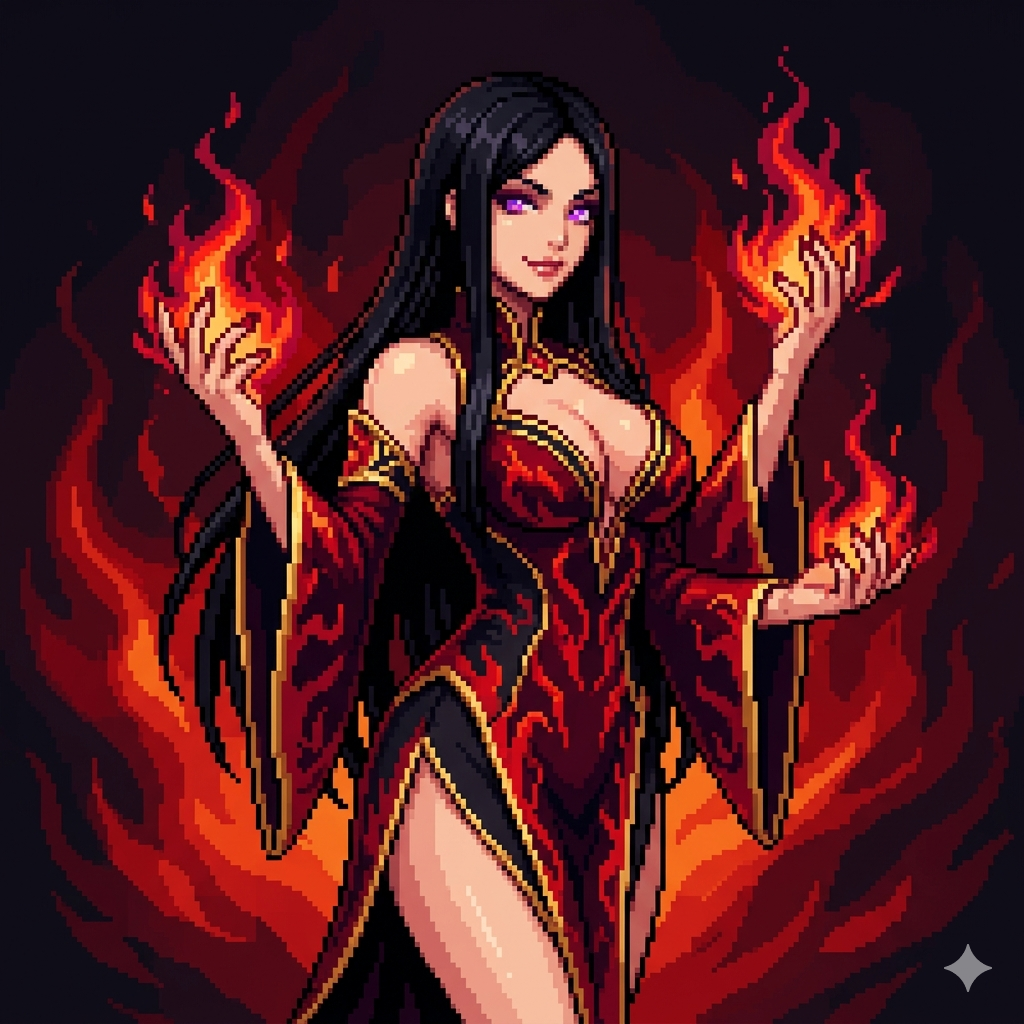
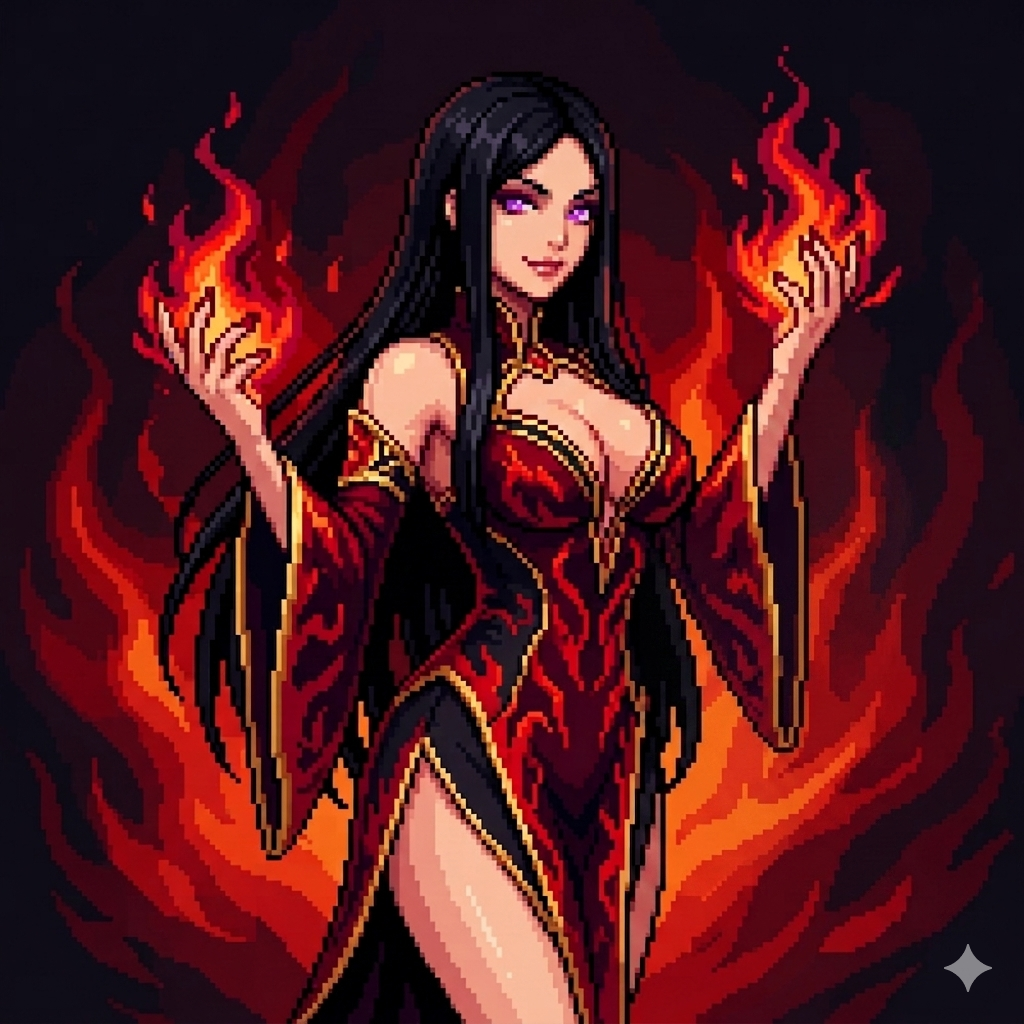
RPG: restore original title art, promote two-hand art to hero portrait
The previous title-art swap put the two-hand-flame portrait in
title.png by mistake — that piece was meant for the in-game hero
portrait, not the splash. Reverting:

- rpg/title.png → restored to the original splash with the
  'INFINITE ORBIT' wordmark and finger-flame pose (from 4c30eb9).
- assets/heroes/mage.png → now uses the two-hand-flame portrait
  that was sitting in title.png. Same file, same dimensions, just
  in the right slot now so the hero card / battle sprite shows it.

Bumps SW cache to v16 so phones pick up the swap immediately
instead of holding the wrong cached pair.

https://claude.ai/code/session_012QkwQJQUb2AAgDVienYpmE

diff --git a/rpg/sw.js b/rpg/sw.js
@@ -1,4 +1,4 @@
-const CACHE = 'ignia-v15-bosses';
+const CACHE = 'ignia-v16-restore-title';
 const ASSETS = [
   './',
   './index.html',
